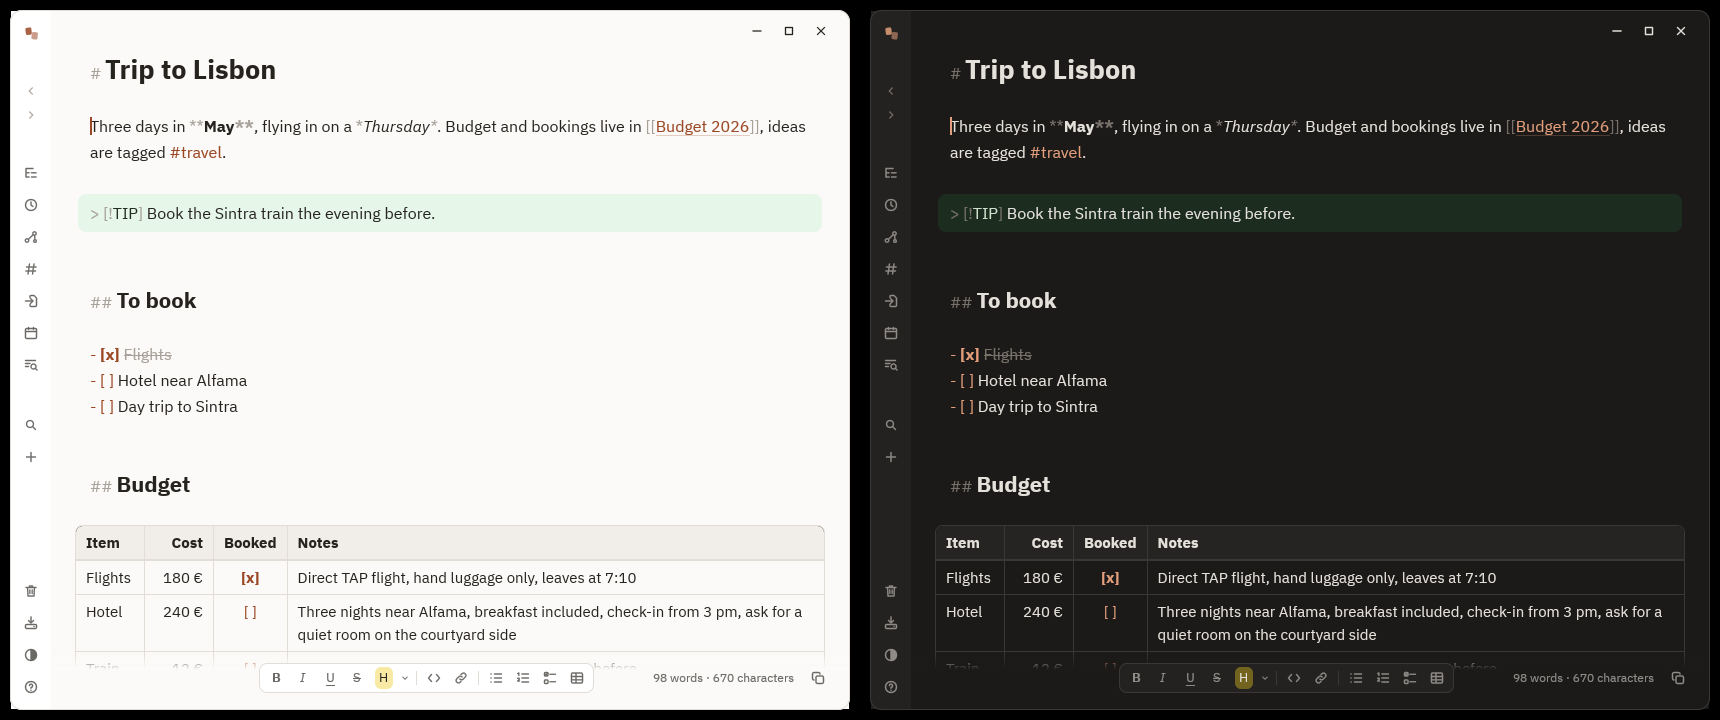
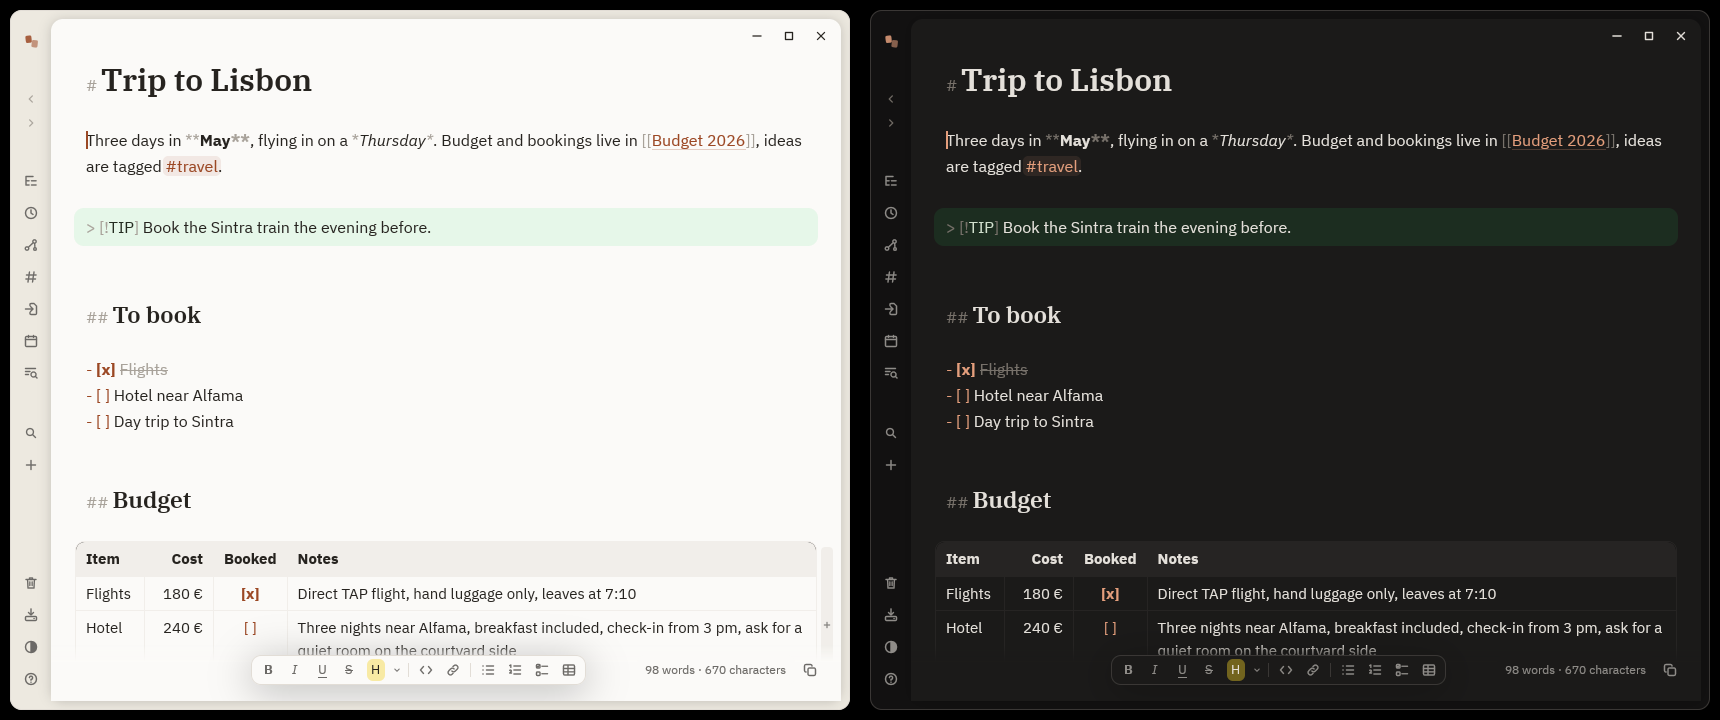
docs: describe the Atelier look and retake the screenshot
The series gave the window a warm ground with sheets, serif titles, pill
tabs and tinted rows; the README (Appearance, features, tabs) and the
feature list of the page now say so, and bref.png (Bref Light and Bref
Dark side by side) shows the new look. The help panel describes no look
and is unchanged.

Closes #91

diff --git a/docs/index.html b/docs/index.html
@@ -205,7 +205,7 @@ footer a:hover { color: var(--text); }
         <div class="feat"><h3>Diagrams</h3><p>Mermaid, LaTeX, or shapes and arrows drawn on a canvas, UML included. Saved as SVG in your vault.</p><code>diagram.svg</code></div>
         <div class="feat"><h3>Daily note and capture</h3><p>One key opens today's note. One shortcut of your desktop captures a line from anywhere, and the window is gone.</p><code>Ctrl + J</code></div>
         <div class="feat"><h3>Sync in one action</h3><p>Commit, receive, merge and send a vault kept in git. A real conflict keeps both versions as two notes.</p><code>Ctrl + Shift + S</code></div>
-        <div class="feat"><h3>Yours to dress</h3><p>A dozen readable themes, light and dark, IBM Plex built in, English and French, following your system.</p><code>Dracula · Nord · Gruvbox</code></div>
+        <div class="feat"><h3>Yours to dress</h3><p>Sheets on a warm ground, serif titles, a dozen readable themes, light and dark, IBM Plex built in, English and French, following your system.</p><code>Dracula · Nord · Gruvbox</code></div>
       </div>
 
       <p class="more"><b>And also:</b> slash commands, a formatting bar, short fades you can turn off, blocks you drag, templates, find and replace in a note or the whole vault, several cursors, comments, embedded sections, kanban boards, a folder or a tag shown as a table, split panes and tabs you drag where they belong, the panel's views stacked in a dock left or right of the notes, dragged by their title, or opened as a tab, CSV and TSV in a grid, a trash you can undo, and messages that say what went wrong, in words, and stay until read.</p>

diff --git a/README.md b/README.md
@@ -25,7 +25,7 @@ A fast, minimal note-taking app. Notes are plain Markdown files in a folder you 
 - **Backlinks**: the notes that link to the open one, each with the line that holds the link.
 - **Sync in one action**: `Ctrl + Shift + S` commits, receives, merges and sends a vault kept in git, in the background; a real conflict keeps both versions as two notes, never as markers in your text. A vault can also simply live in a cloud folder.
 - **Split panes**: `Ctrl + \` splits the pane to the right, `Ctrl + Alt + \` below, as many times as the window has room for: write a note while reading two others, keep a table under a note. Each pane shows anything Bref can show; a file dragged from the tree opens in the pane you drop it on.
-- **Tabs**: a pane holds as many files as you like, as in a code editor. A click on a file in the tree, a note chosen in the palette, a link followed, a new note: each opens in a tab of its own, right of the one shown, and if the file is already open its tab comes to the front instead (a note is open once). Browsing the tree with the arrows previews notes in a single tab, in italics, which the next note browsed replaces; opening it for good keeps it. A bar of tabs appears at the top of the pane as soon as it holds two: a click shows a tab, its cross or the middle button closes it, `Ctrl + Tab` and `Ctrl + Shift + Tab` go round them, `Ctrl + Shift + Page Up` and `Page Down` move the tab along the bar, and a tab can be dragged along it, into another pane, or to an edge to split one. `Ctrl + W` closes the tab, what it holds saved first (the pane goes with its last tab), and `Ctrl + Alt + T` reopens the last one closed. Back and forward go from tab to tab, and bring a closed file back in a tab. Tabs come back at the next start. A tab out of sight keeps its text, cursor and undo, but lets go of what it drew, so a hundred tabs cost little memory.
+- **Tabs**: a pane holds as many files as you like, as in a code editor. A click on a file in the tree, a note chosen in the palette, a link followed, a new note: each opens in a tab of its own, right of the one shown, and if the file is already open its tab comes to the front instead (a note is open once). Browsing the tree with the arrows previews notes in a single tab, in italics, which the next note browsed replaces; opening it for good keeps it. A bar of tabs, each a rounded pill, appears at the top of the pane as soon as it holds two: a click shows a tab, its cross or the middle button closes it, `Ctrl + Tab` and `Ctrl + Shift + Tab` go round them, `Ctrl + Shift + Page Up` and `Page Down` move the tab along the bar, and a tab can be dragged along it, into another pane, or to an edge to split one. `Ctrl + W` closes the tab, what it holds saved first (the pane goes with its last tab), and `Ctrl + Alt + T` reopens the last one closed. Back and forward go from tab to tab, and bring a closed file back in a tab. Tabs come back at the next start. A tab out of sight keeps its text, cursor and undo, but lets go of what it drew, so a hundred tabs cost little memory.
 - **Back and forward**: `Alt + Left` and `Alt + Right` (`Cmd + [` and `Cmd + ]` on macOS), the side buttons of the mouse or the two arrows at the top of the rail walk through what you opened, notes, pictures, diagrams, tables and list pages alike, and land where you were: same line, same scroll.
 - **Four ways around your notes**: the vault as a tree, the notes you opened last, a graph of the links between them, and your tags, in a panel that folds down to a thin rail of icons. Each view of the panel can live on either side of the notes: the arrow in its header (or **Move the panel's view to the other dock** in the palette) sends it to the dock on the right, and back, so the tree and the backlinks, or the graph and the calendar, stay in sight together. The rail shows or hides a view where it lives; Shift+click on its icon stacks it under the views already shown in its dock, each with a header that folds it down (the chevron) or hides it (the cross). Drag a view by its title to put it elsewhere: a line shows where it lands in a dock, and while it is dragged a strip on the right edge of the window opens the right dock; Escape lets go without moving anything. The graph and the calendar also open as a tab of a pane, to get room (the button next to the arrow, or **Open the graph or the calendar as a tab**); closing the tab gives the view back to its dock. The right dock hides when the window leaves the notes too little room, and where everything is comes back at the next launch.
 - **Diagrams drawn by hand**: shapes, arrows that hold on to them, UML boxes, on a canvas. Each diagram is an SVG file in your vault, shown in your notes.
@@ -38,7 +38,7 @@ A fast, minimal note-taking app. Notes are plain Markdown files in a folder you 
 - **Capture in one line**: one shortcut of your desktop (set up from the palette, `Super + Shift + N` on GNOME) opens a single line anywhere, anytime: type, `Enter`, it is at the bottom of today's note and the window is gone. See [Capture](#capture).
 - **A blank page that remembers**: an empty note shows, under the line you write on, today's date (a click opens the note of the day), the keys that matter, and what to read again: the daily notes of a week, a month and a year ago, and one note you have not touched for a month or more, a different one each day. A click opens any of them; the first key you type clears the page.
 - **Word count**: the bottom of the note shows its words and characters, or those of the selection.
-- **Yours to dress**: a dozen themes (Dracula, Nord, Gruvbox, Catppuccin, Tokyo Night, Solarized…) previewed as you browse them, IBM Plex Sans, Plex Mono and Plex Serif (titles) built in (nothing to install), any installed font if you prefer, and the text size you like.
+- **Yours to dress**: panel, notes and tabs rest as sheets on a softly tinted ground, titles in a serif; a dozen themes (Dracula, Nord, Gruvbox, Catppuccin, Tokyo Night, Solarized…) previewed as you browse them, IBM Plex Sans, Plex Mono and Plex Serif (titles) built in (nothing to install), any installed font if you prefer, and the text size you like.
 - Light and dark, following your system, until you pick a theme. English and French, following the system language.
 
 ## Install
@@ -338,6 +338,7 @@ Bref reopens with the panel as you left it.
 ## Appearance
 
 - **Theme**: the half-filled circle at the bottom of the rail, or `theme` in the palette. Each theme is applied as you move through the list, so you see it before choosing: `Enter` keeps it, `Esc` goes back to the one you had. `Default` follows the light or dark setting of your system. In every theme, links, secondary text and the titles of colored panels are adjusted to read at a contrast of 4.5:1 at least (WCAG AA).
+- **Look**: the window is a warm ground (a little darker than the page, in every theme) on which the note, the panel and the right dock lie as rounded sheets, eight pixels apart; the active pane of a split has a thin accent ring. The open row of a list, a tag in the text, a commented passage and the current tab take a quiet tint of the accent; tables and code blocks have a rounded band; menus, the palette, help and notices float above, with a shadow.
 - **Fonts**: Bref carries IBM Plex Sans (text), IBM Plex Mono (code) and IBM Plex Serif (titles), under the SIL Open Font License (`assets/fonts/`), so it looks the same everywhere without installing anything. Type `font` in the palette (`Ctrl + P`) to choose another font, for the app or for the code, among those installed on your system; type in the list to filter it. Ideograms and emoji, which Plex does not draw, come from a font of your system.
 - **Text size**: `Ctrl + +` and `Ctrl + -`, `Ctrl + 0` for the default. Headings and code scale with it, and so does the width of the text column. The interface around the note (panel, rail, menus, palette, help) follows too, from 85 % to 150 %, so that it stays usable at either end.
 - **Page width**: `page width` in the palette sets how wide the text column is (narrow, normal, wide, or the full window), kept in `settings` as `page=narrow|normal|wide|full`. A table wider than the text does not have to scroll inside it: `wide tables` in the palette chooses between staying in the column, where it scrolls sideways, and spilling out on both sides, centered on the window (the default; `wide=column|center`). A small table keeps its own size, and nothing goes past the window.
